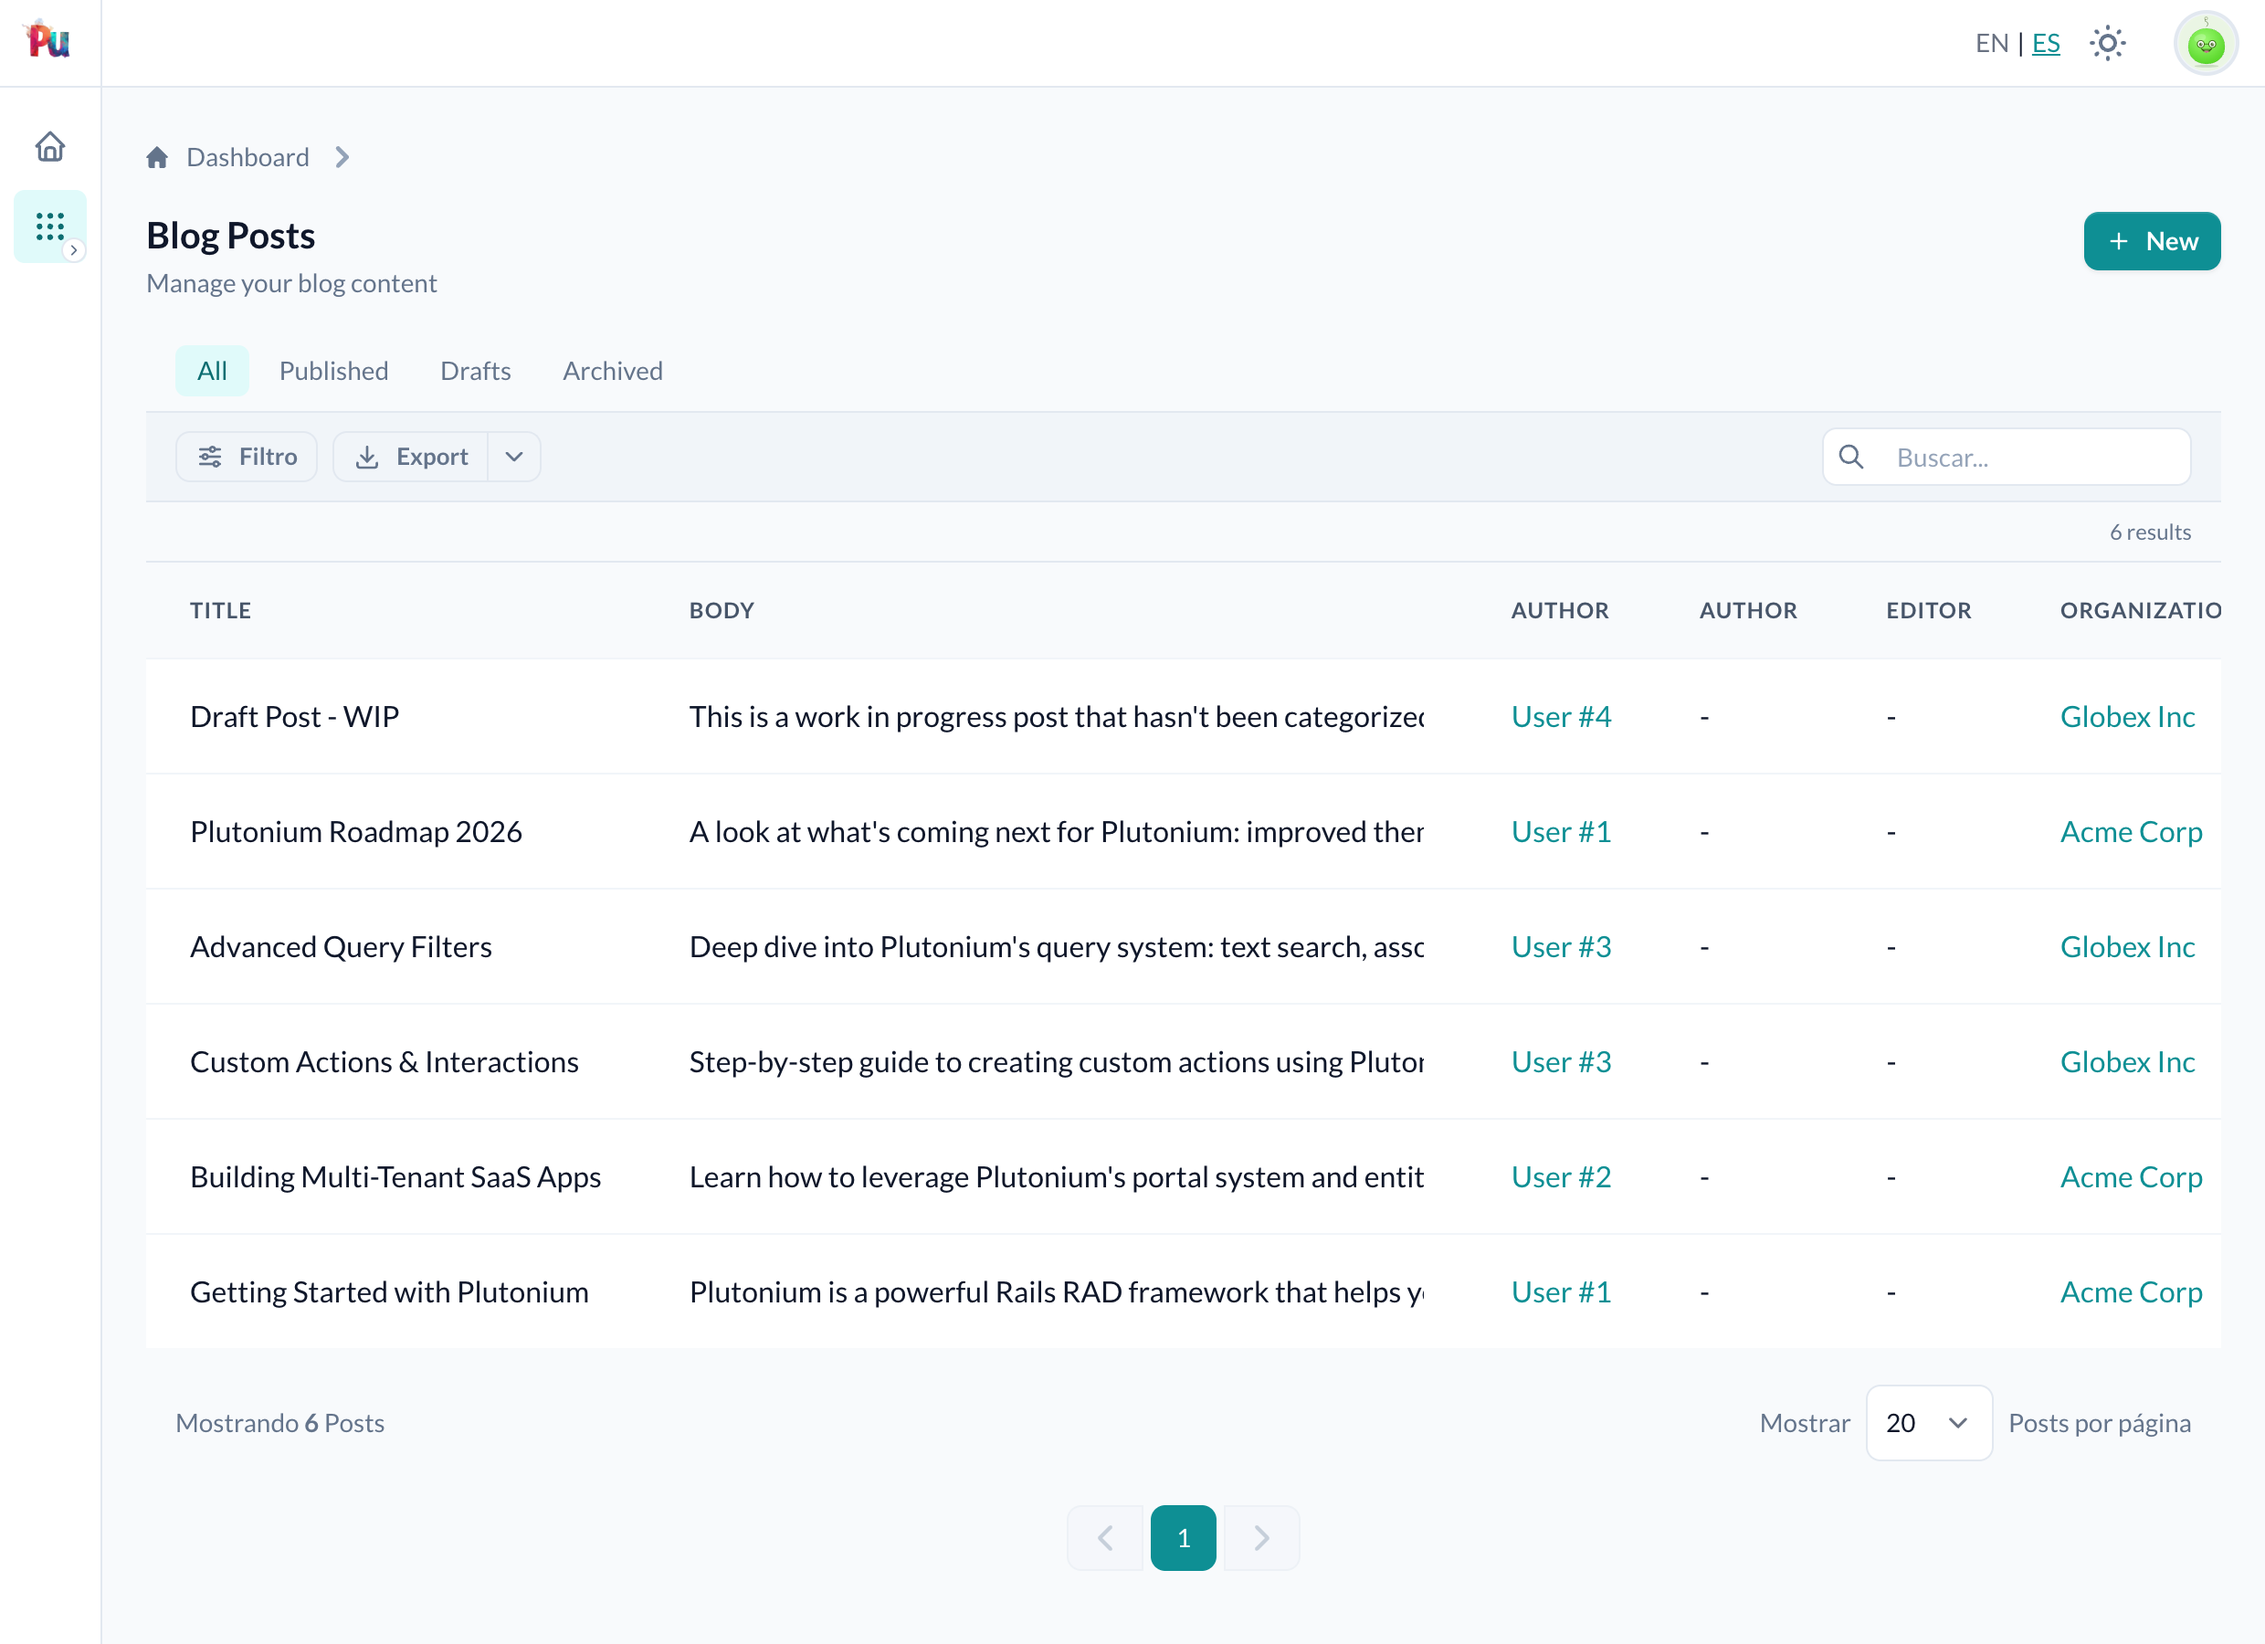
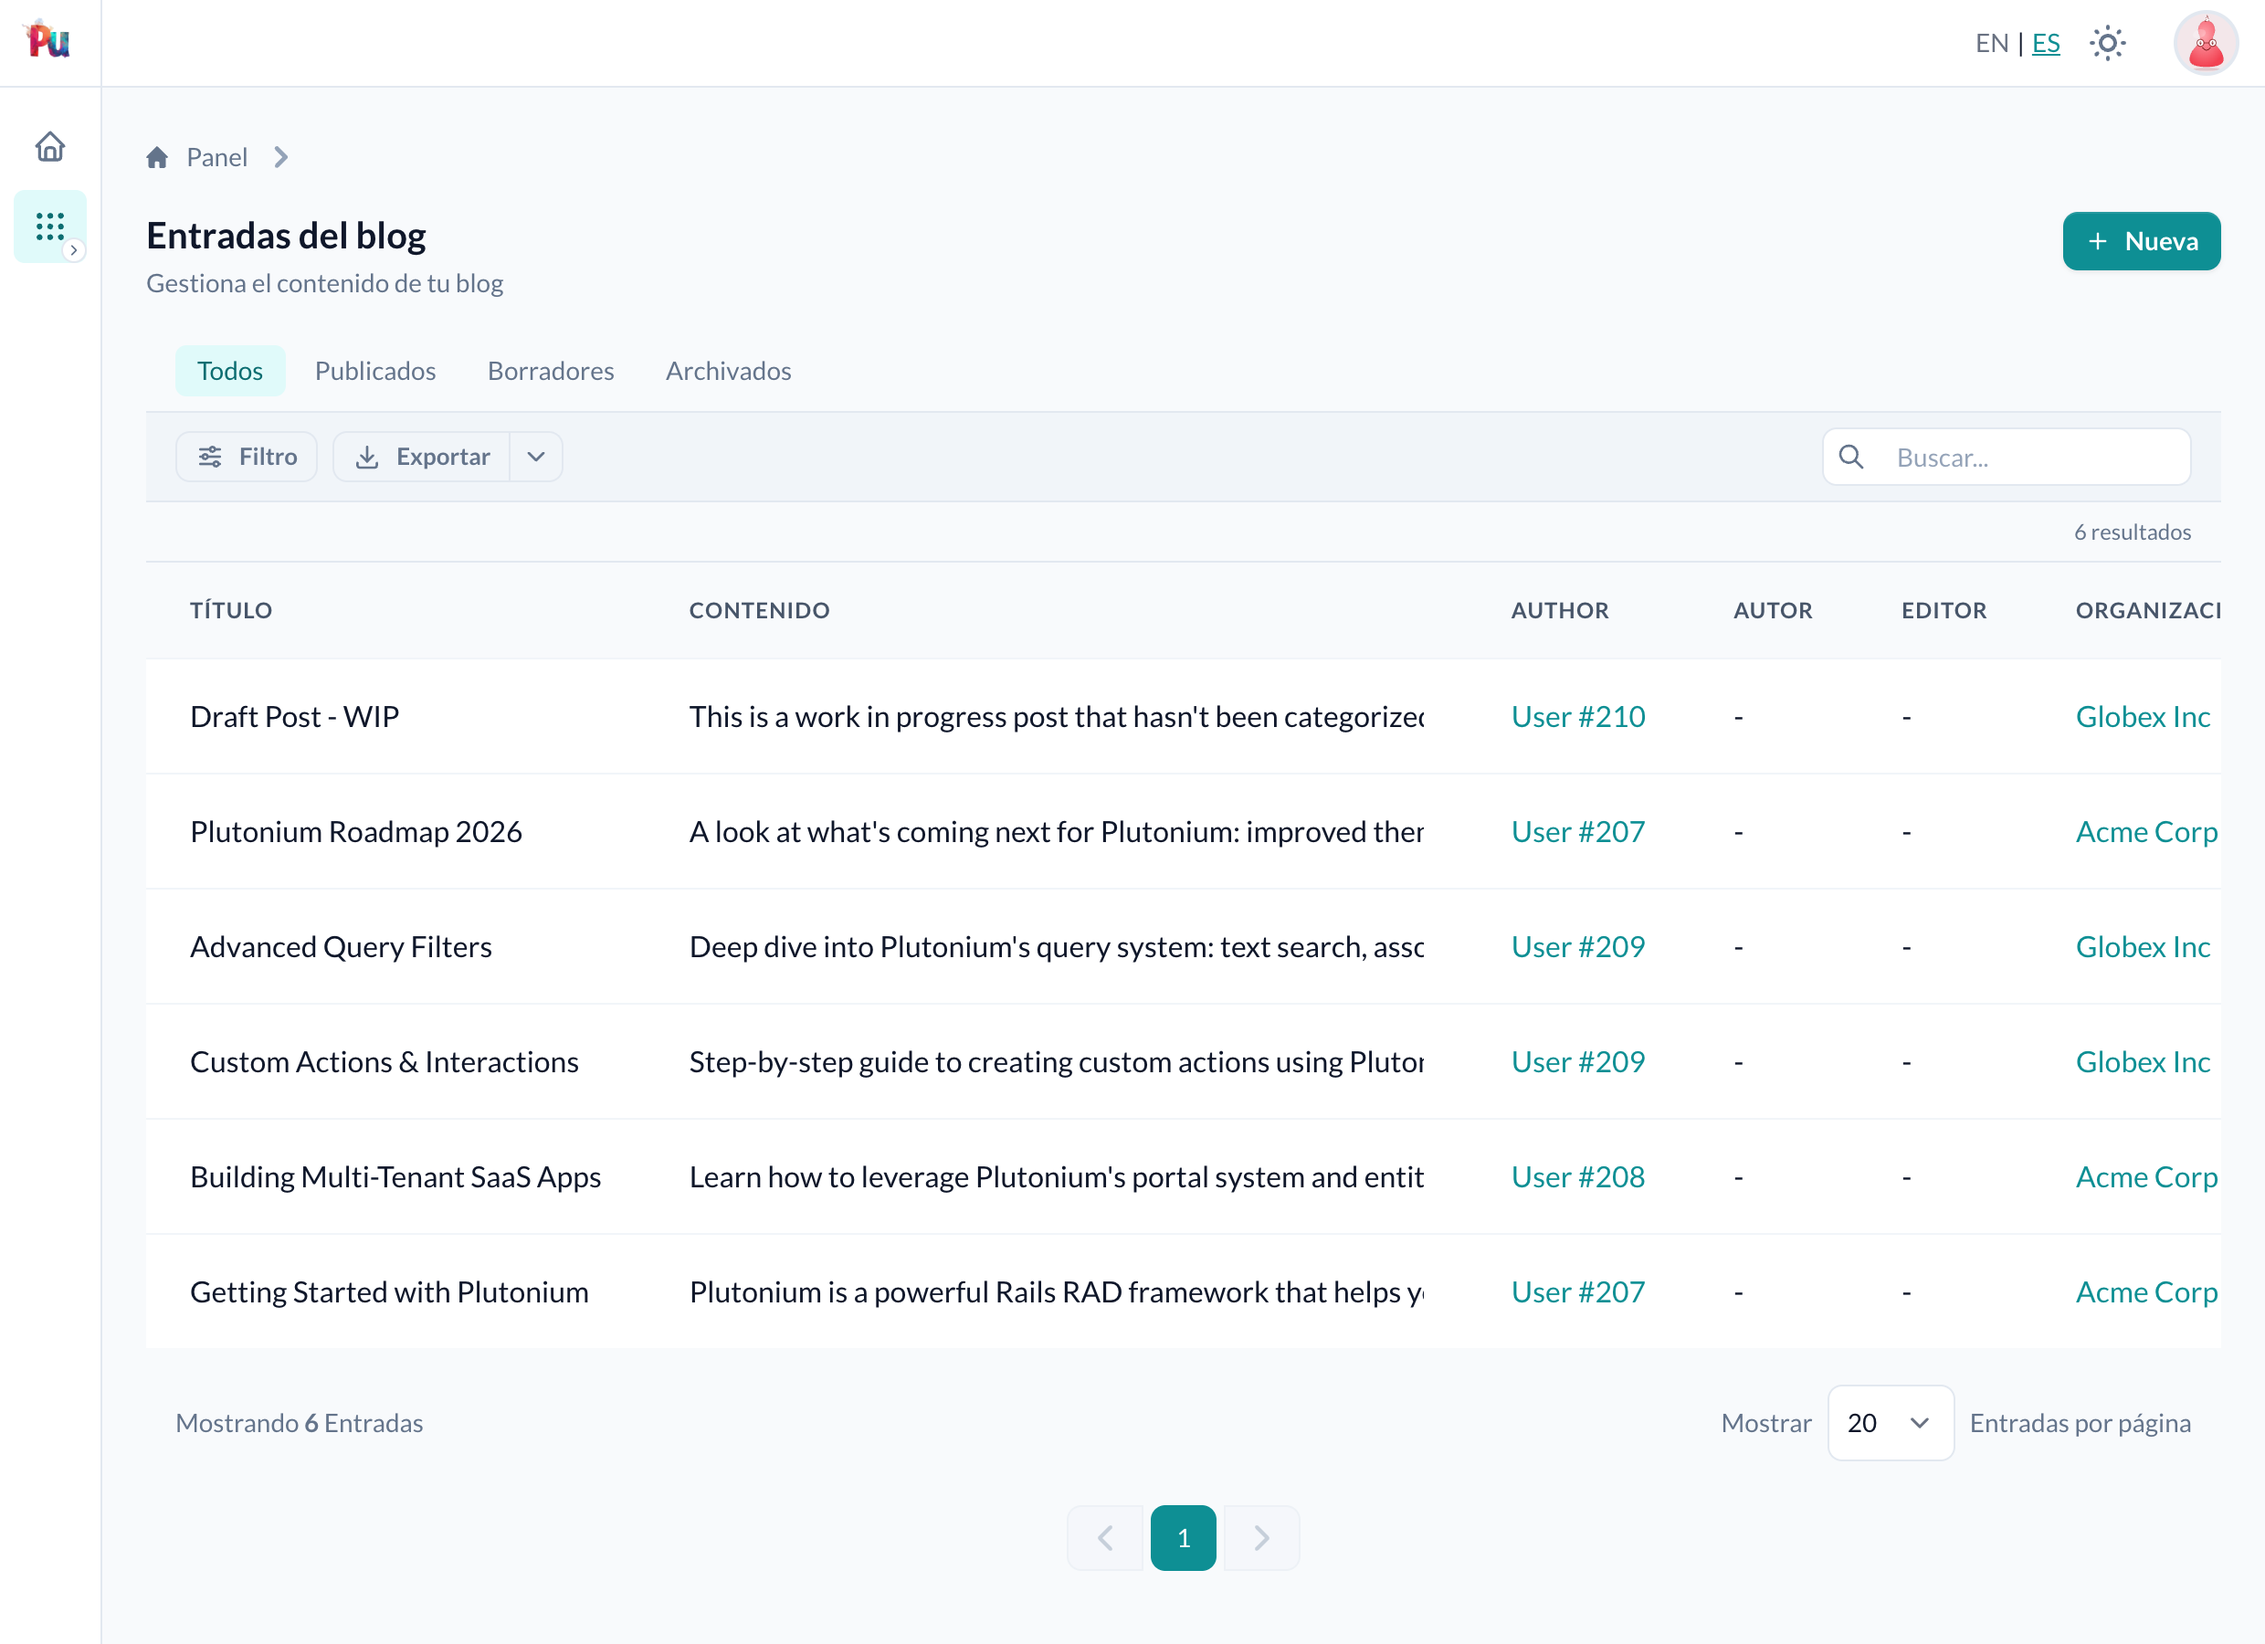
feat(i18n): resolve lazy translations in definition page titles
Page titles and descriptions set on a definition were rendered raw, so
only literals worked. Resolve them through Translation.resolve in
render_page_header, matching how inputs and labels resolve, so
`index_page_title t("...")` follows the request locale.

Expand the dummy admin locale demo to translate the full blog-posts
screen (model name, scopes, attribute headers, enum values, standard and
custom actions, table controls) and its lazy page title/description, and
recapture the EN/ES screenshot. Update the reference and the announcement
post accordingly.

diff --git a/test/integration/admin_portal/locale_switch_test.rb b/test/integration/admin_portal/locale_switch_test.rb
@@ -21,6 +21,7 @@ class AdminPortal::LocaleSwitchTest < ActionDispatch::IntegrationTest
 
     assert_response :success
     assert_includes response.body, "Search..."
+    assert_includes response.body, "Blog Posts"         # lazy page title, en
     refute_includes response.body, "Buscar..."
   end
 
@@ -30,7 +31,10 @@ class AdminPortal::LocaleSwitchTest < ActionDispatch::IntegrationTest
     assert_response :success
     assert_includes response.body, "Buscar..."          # table search placeholder
     assert_includes response.body, "Cerrar sesión"      # user menu, via nav.sign_out
+    assert_includes response.body, "Entradas del blog"  # lazy page title, es
+    assert_includes response.body, "Borradores"         # scope tab, via plutonium.scopes
     refute_includes response.body, "Search..."
+    refute_includes response.body, "Blog Posts"
   end
 
   test "the chosen locale persists across later requests" do

diff --git a/test/features/definition_fields_test.rb b/test/features/definition_fields_test.rb
@@ -119,8 +119,9 @@ class DefinitionFieldsTest < Minitest::Test
     assert Blogging::PostDefinition.defined_columns.key?(:user)
     assert_equal "Author", Blogging::PostDefinition.defined_columns[:user][:options][:label]
 
-    # Test page titles
-    assert_equal "Blog Posts", Blogging::PostDefinition.index_page_title
-    assert_equal "Manage your blog content", Blogging::PostDefinition.index_page_description
+    # Test page titles. They are lazy translations (a proc built by the
+    # definition's `t`), resolved in the request locale at render.
+    assert_equal "Blog Posts", Plutonium::Translation.resolve(Blogging::PostDefinition.index_page_title)
+    assert_equal "Manage your blog content", Plutonium::Translation.resolve(Blogging::PostDefinition.index_page_description)
   end
 end

diff --git a/lib/plutonium/ui/page/base.rb b/lib/plutonium/ui/page/base.rb
@@ -64,9 +64,17 @@ module Plutonium
         end
 
         def render_page_header
-          return unless page_title
+          # Titles and descriptions may be lazy translations (a proc built by
+          # the definition's `t`), so resolve them in the request's locale the
+          # same way inputs and labels are resolved.
+          title = Plutonium::Translation.resolve(page_title)
+          return unless title
 
-          PageHeader(title: page_title, description: page_description, actions: page_actions)
+          PageHeader(
+            title: title,
+            description: Plutonium::Translation.resolve(page_description),
+            actions: page_actions
+          )
         end
 
         def render_toolbar

diff --git a/test/dummy/packages/blogging/app/definitions/blogging/post_definition.rb b/test/dummy/packages/blogging/app/definitions/blogging/post_definition.rb
@@ -1,7 +1,8 @@
 class Blogging::PostDefinition < Blogging::ResourceDefinition
-  # Page titles
-  index_page_title "Blog Posts"
-  index_page_description "Manage your blog content"
+  # Page titles. Lazy translations (the definition's `t`) so they follow the
+  # request locale; the keys live in the app's config/locales/{en,es}.yml.
+  index_page_title t("blog.index.title")
+  index_page_description t("blog.index.description")
 
   # Field customizations
   field :body, as: :text

diff --git a/docs/blog/introducing-plutonium-i18n.md b/docs/blog/introducing-plutonium-i18n.md
@@ -70,7 +70,7 @@ def switch_locale(&)
 end
 ```
 
-Pick ES and the portal answers in Spanish: the search box, the filters, the page titles, the CRUD flashes, the user menu.
+Pick ES and the portal answers in Spanish: the heading, the search box, the filters and scopes, the column headers, the row and page actions, the status badges, the pager and the CRUD flashes. The heading translates because the definition sets it with the same lazy `t`, `index_page_title t("blog.index.title")`, that inputs and labels use. Two things stay English by design: the record data, because it is yours and not the framework's, and any label a definition hardcodes as a plain string, like the `column :user, label: "Author"` you can see in the shot sitting next to the translated `Autor`.
 
 ![The dummy admin portal rendered in Spanish, with the EN | ES switch in the top bar](/images/blog/i18n-es-admin.png)
 
@@ -82,7 +82,7 @@ The Stimulus controllers bundled with the gem read their strings from a JSON blo
 
 ## Ship a half-translated locale
 
-You do not have to finish a language before you use it. The dummy demo translates only a visible slice of the strings and lets everything else fall back to English through `config.i18n.fallbacks`. That matters more than it sounds: the test environment turns on `raise_on_missing_translations`, so a page under a half-done locale would otherwise blow up on the first key you had not reached yet. With fallbacks on, a found-via-fallback string is not missing. Translate what your users see first, ship it, and fill in the rest as you go.
+You do not have to finish a language before you use it. The dummy demo translates the blog-posts screen and leaves the rest of the app, the dates, and Rodauth's own flashes to fall back to English through `config.i18n.fallbacks`. That matters more than it sounds: the test environment turns on `raise_on_missing_translations`, so a page under a half-done locale would otherwise blow up on the first key you had not reached yet. With fallbacks on, a found-via-fallback string is not missing. Translate the screens your users live on first, ship it, and fill in the rest as you go.
 
 ## Adding a language
 

diff --git a/docs/reference/i18n.md b/docs/reference/i18n.md
@@ -111,6 +111,15 @@ input :email, placeholder: -> { I18n.t("forms.shared.email_placeholder") }
 
 Never call `I18n.t` directly in a class body. It runs once, at load time, in whatever locale happened to be active. Literal strings remain allowed and are used as they are.
 
+The page-title setters take the same values. Pass a literal to fix it, or the lazy `t` to translate it per request:
+
+```ruby
+index_page_title t("blog.index.title")
+index_page_description t("blog.index.description")
+```
+
+When a definition sets no title, the page falls back to the resource's translated model name.
+
 ## Derived labels
 
 Actions, scopes, filters, kanban columns and wizard steps default to a humanized version of their key. Each has a convention key that takes precedence over that fallback, and a `label:` option that takes precedence over both. For an action backed by an interaction, the interaction's explicit `presents label:` also counts as declared and wins over the convention; only the class-name default yields to it.
